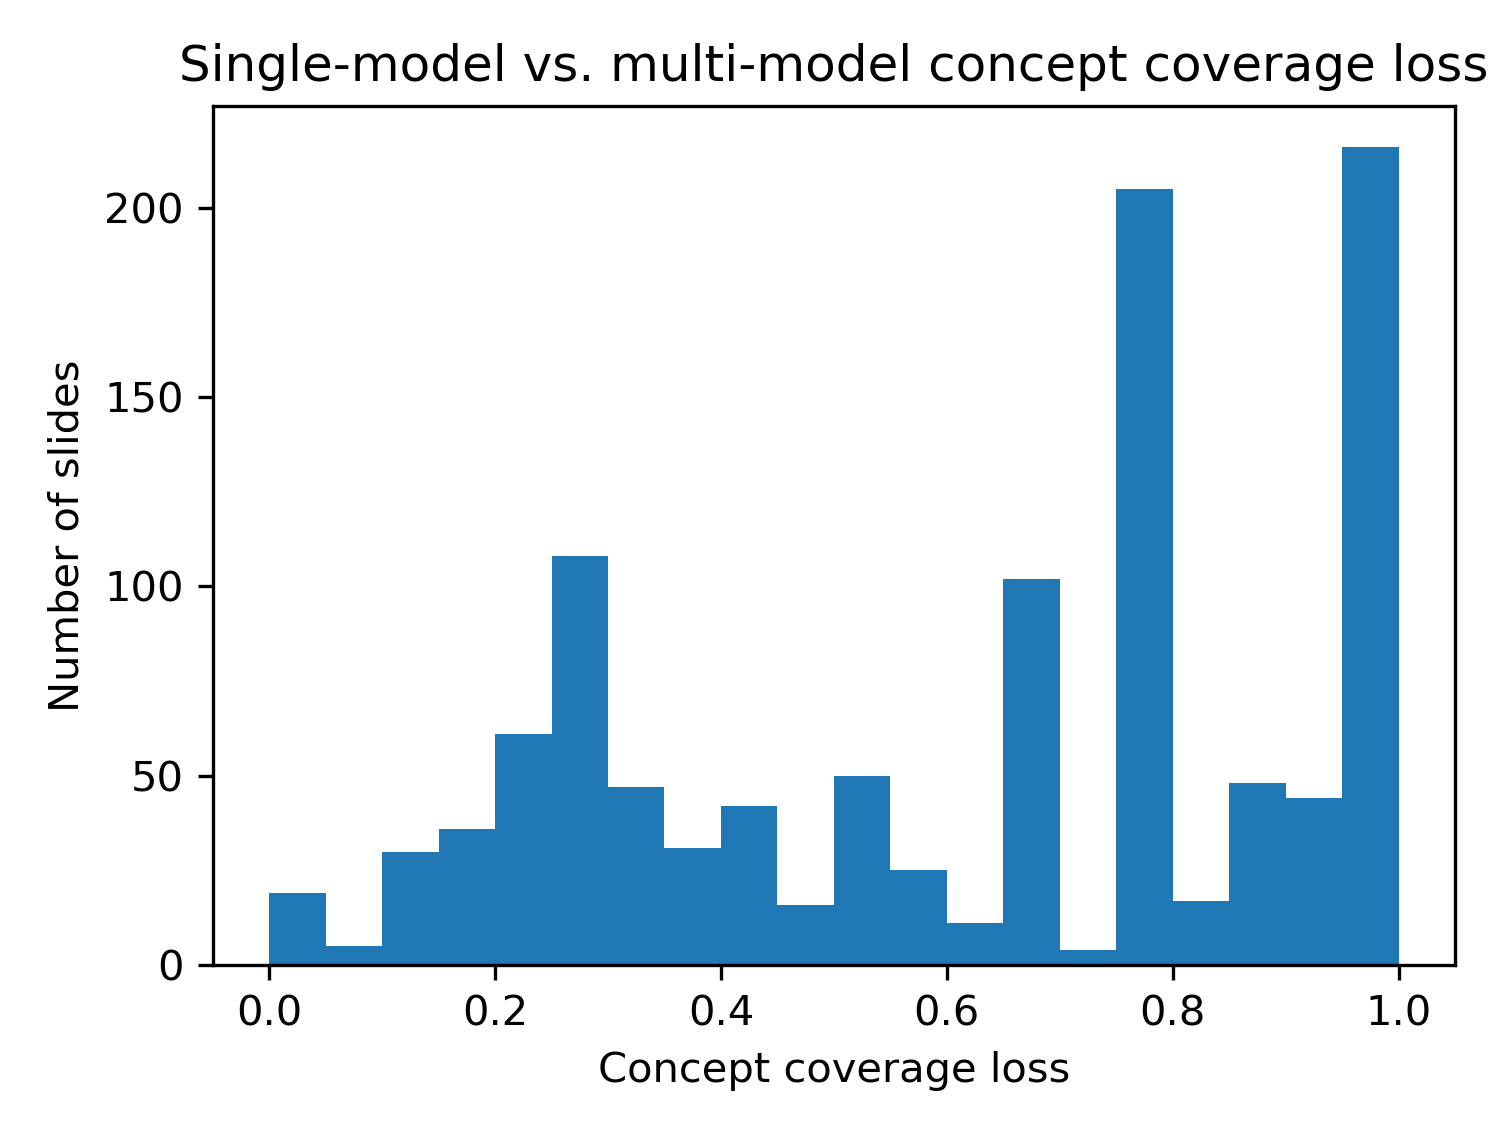
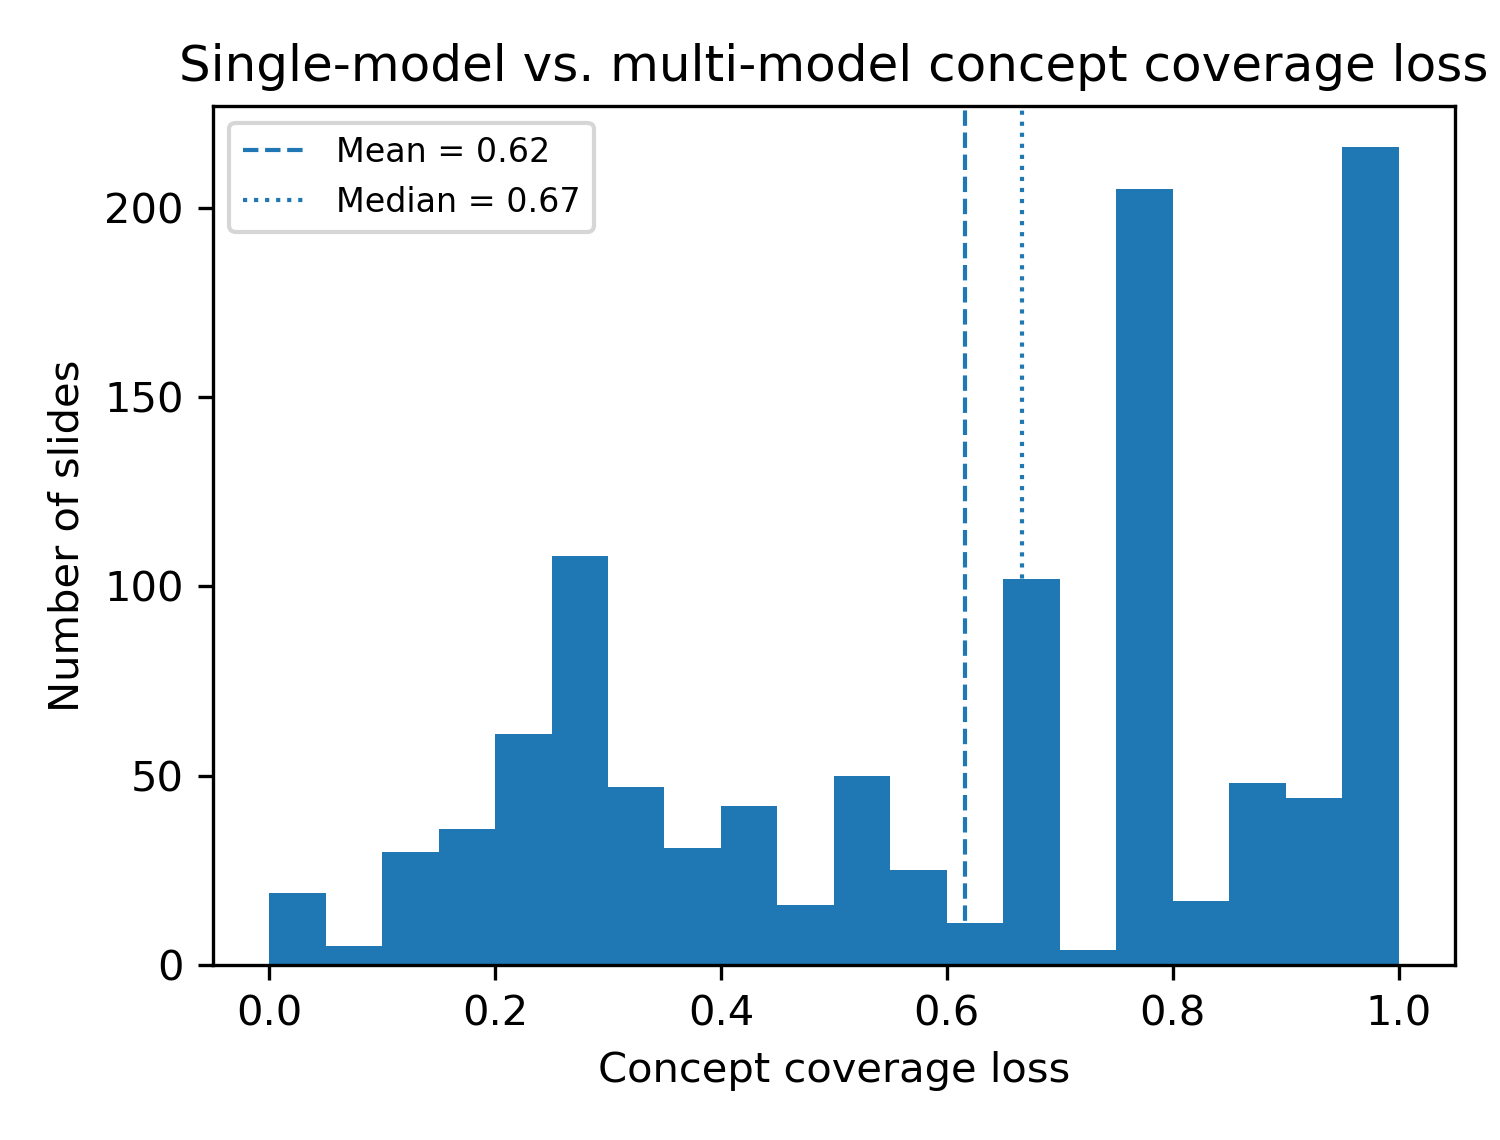
added updated figures

Changed region(s): [[0.1533, 0.0921, 0.3987, 0.2149]]

diff --git a/SlideChain/python/plot_single_vs_multi.py b/SlideChain/python/plot_single_vs_multi.py
@@ -10,30 +10,46 @@ OUTPUT_DIR.mkdir(parents=True, exist_ok=True)
 # Load data
 df = pd.read_csv(INPUT_CSV)
 
-# -------------------------------
-# Figure 1: Concept Coverage Loss
-# -------------------------------
+# ======================================================
+# Figure 1: Concept Coverage Loss (with mean & median)
+# ======================================================
+concept_mean = df["concept_coverage_loss"].mean()
+concept_median = df["concept_coverage_loss"].median()
+
 plt.figure(figsize=(5, 3.8))
 plt.hist(df["concept_coverage_loss"], bins=20)
+plt.axvline(concept_mean, linestyle="--", linewidth=1, label=f"Mean = {concept_mean:.2f}")
+plt.axvline(concept_median, linestyle=":", linewidth=1, label=f"Median = {concept_median:.2f}")
+
 plt.xlabel("Concept coverage loss")
 plt.ylabel("Number of slides")
 plt.title("Single-model vs. multi-model concept coverage loss")
+plt.legend(fontsize=8)
 plt.tight_layout()
 
 plt.savefig(OUTPUT_DIR / "concept_coverage_loss_hist.png", dpi=300)
 plt.close()
 
-# ------------------------------
-# Figure 2: Triple Coverage Loss
-# ------------------------------
+# ======================================================
+# Figure 2: Triple Coverage Loss (with mean & median)
+# ======================================================
+triple_mean = df["triple_coverage_loss"].mean()
+triple_median = df["triple_coverage_loss"].median()
+
 plt.figure(figsize=(5, 3.8))
 plt.hist(df["triple_coverage_loss"], bins=20)
+plt.axvline(triple_mean, linestyle="--", linewidth=1, label=f"Mean = {triple_mean:.2f}")
+plt.axvline(triple_median, linestyle=":", linewidth=1, label=f"Median = {triple_median:.2f}")
+
 plt.xlabel("Triple coverage loss")
 plt.ylabel("Number of slides")
 plt.title("Single-model vs. multi-model triple coverage loss")
+plt.legend(fontsize=8)
 plt.tight_layout()
 
 plt.savefig(OUTPUT_DIR / "triple_coverage_loss_hist.png", dpi=300)
 plt.close()
 
 print("Figures saved to:", OUTPUT_DIR)
+print(f"Concept coverage loss: mean={concept_mean:.3f}, median={concept_median:.3f}")
+print(f"Triple coverage loss:  mean={triple_mean:.3f}, median={triple_median:.3f}")
